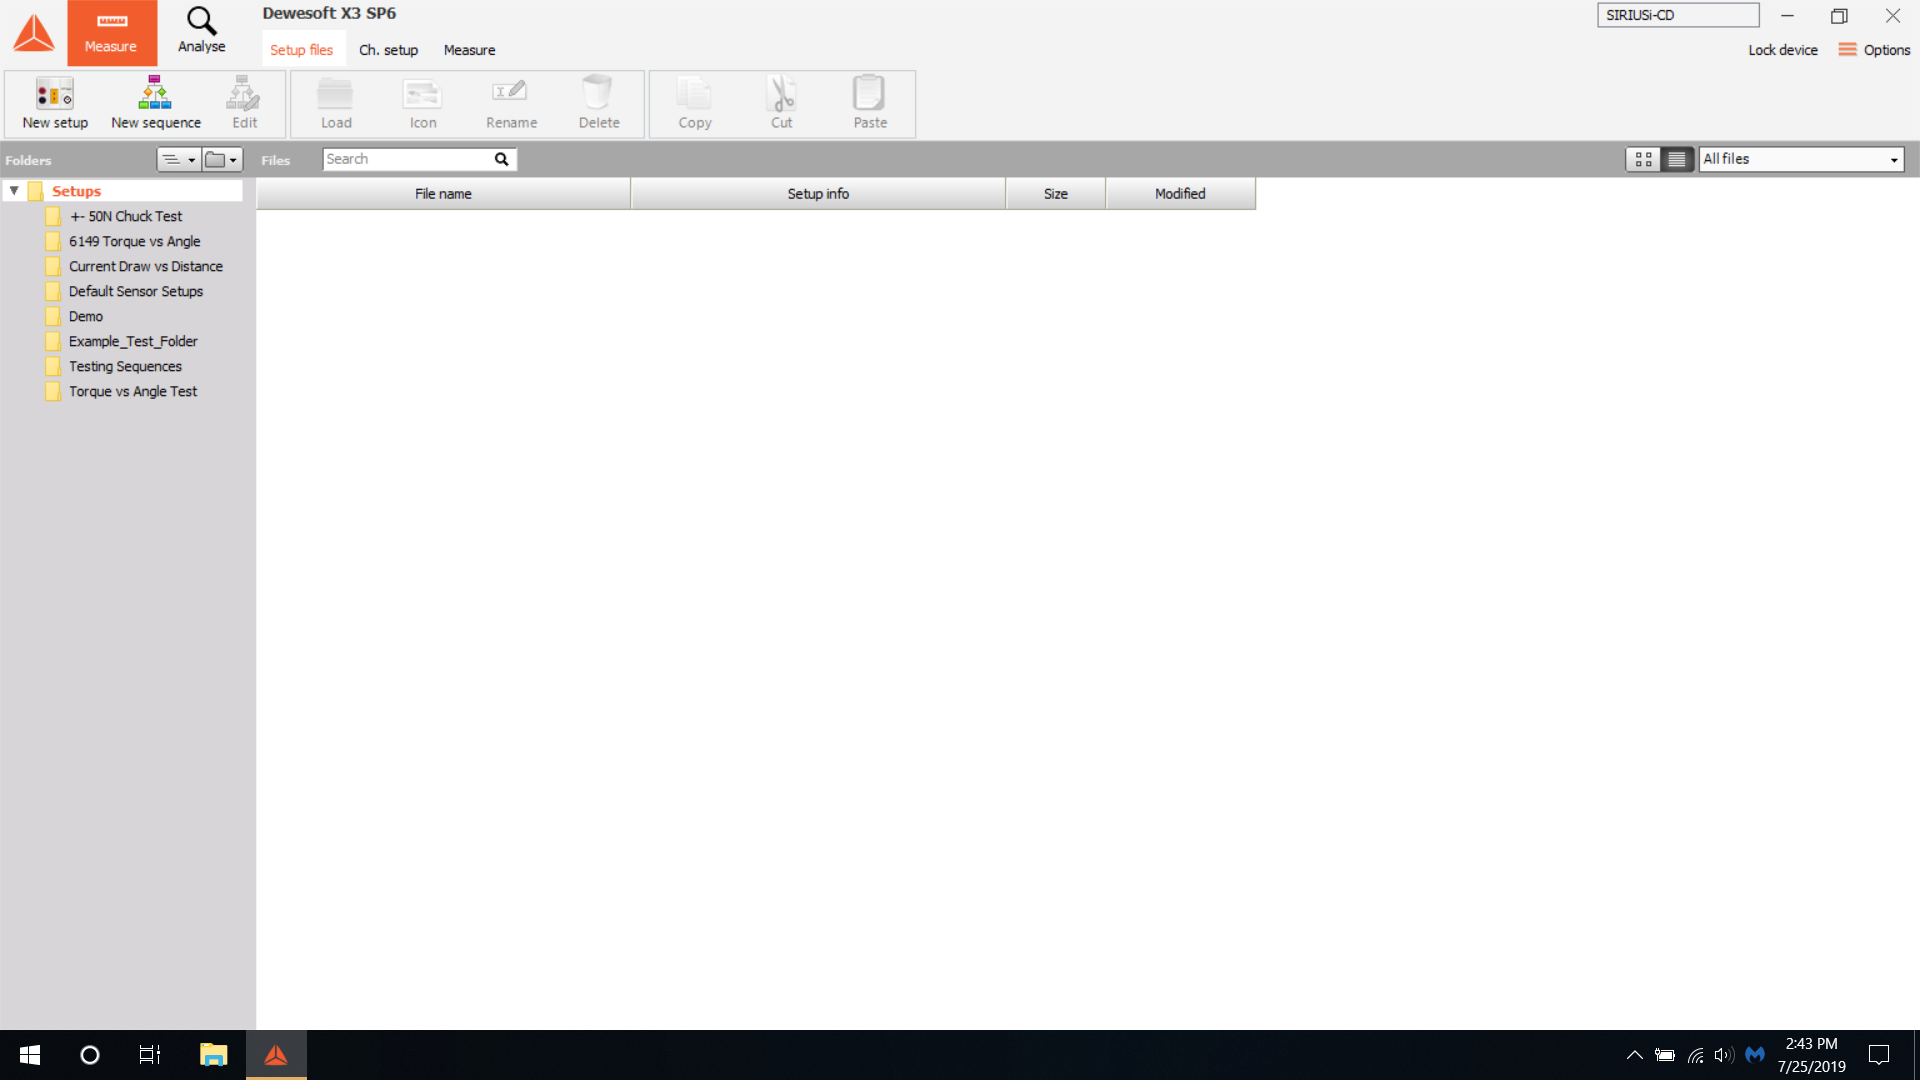
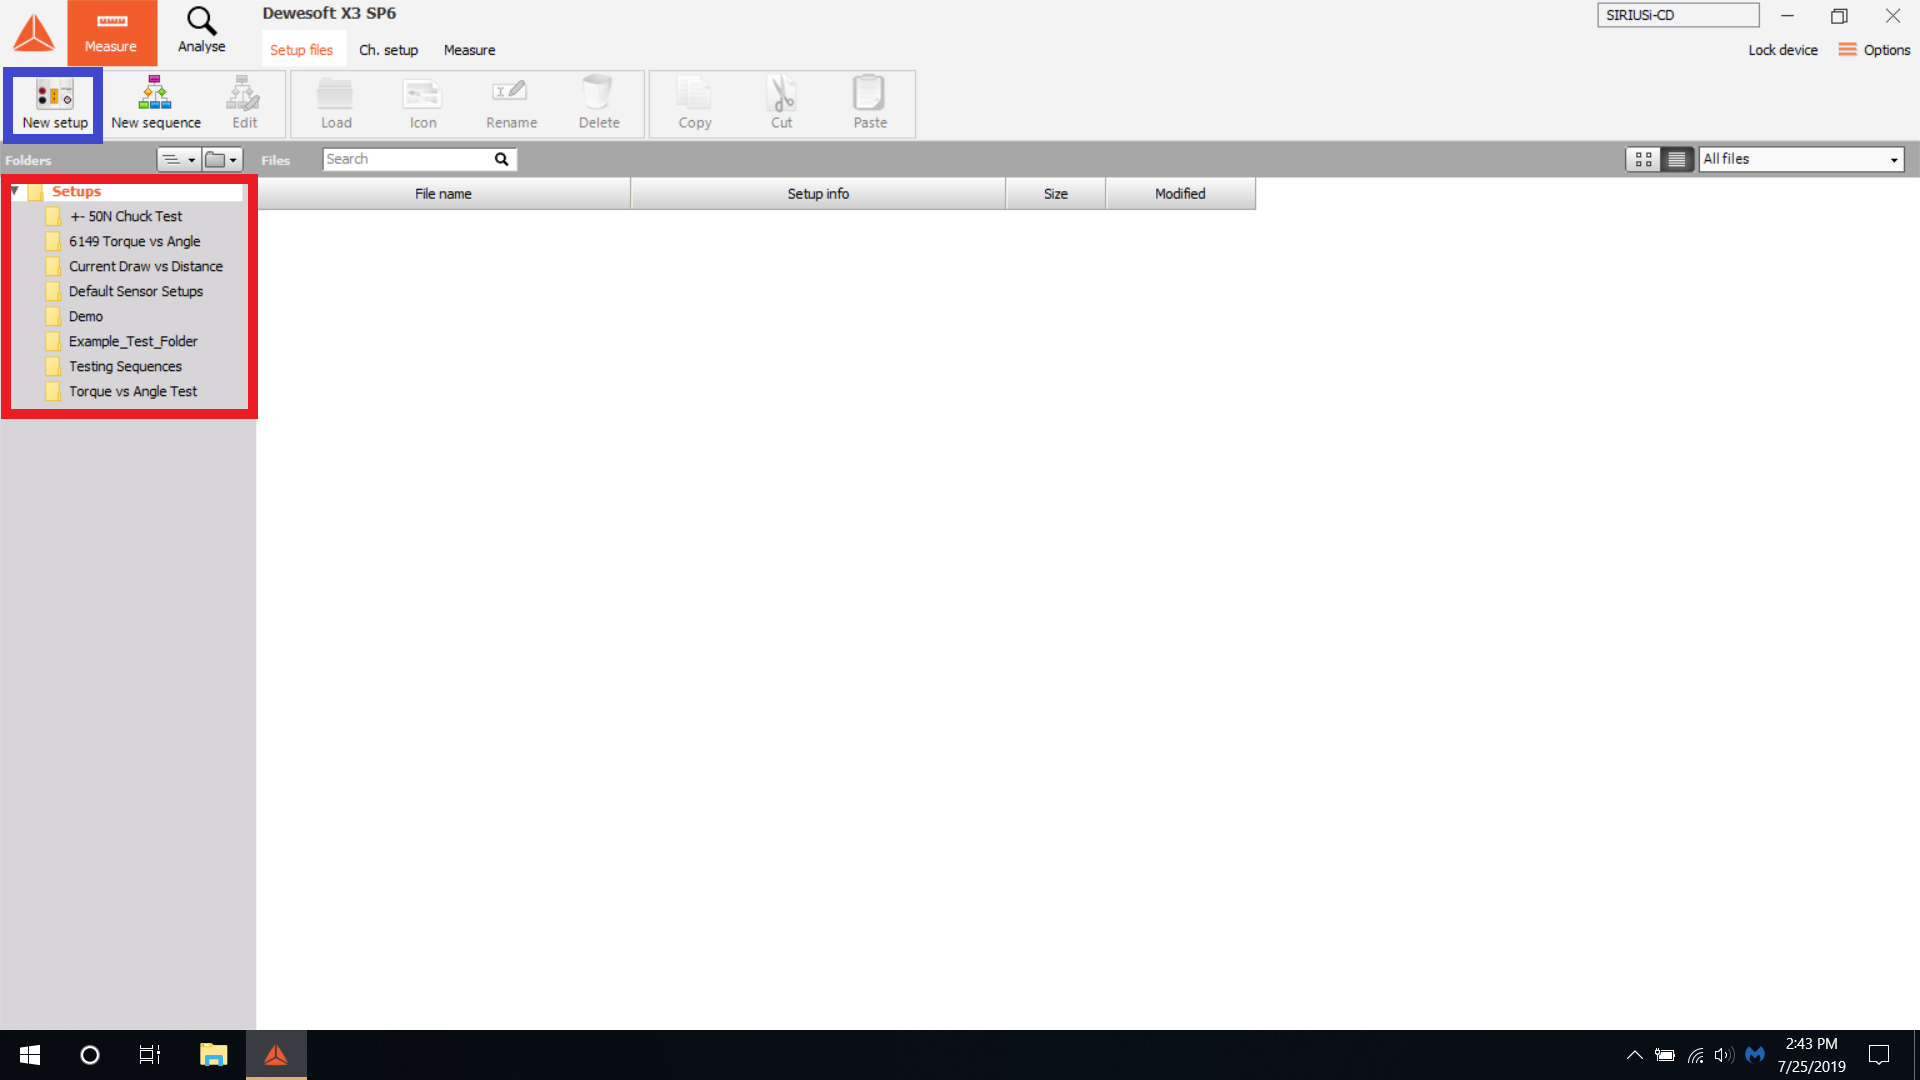
Edited the pictures and added boxes

Changed region(s): [[0.0, 0.0611, 0.1562, 0.3972]]

diff --git a/index.html b/index.html
@@ -6,7 +6,7 @@
     *   Author: Joshua B. Schember                    /#\   *
     *   Company: Fisher & Company                    /###\  *
     *   Date Created: 07-15-2019                     /###\  *
-    *   Last Modified: 07-15-2019                   /#####\ *
+    *   Last Modified: 08-01-2019                   /#####\ *
     *                                                 |@|   *
     *                                                       *
     * * * * * * * * * * * * * * * * * * * * * * * * * * * * *
@@ -537,7 +537,7 @@
                 
             </h3></a>
             
-            <img src="Pictures/Screenshot (4).png" alt="Screenshot(4)" class=zoom>
+            <img src="Pictures/Screenshot (11).png" alt="Screenshot(11)" class=zoom>
             <img src="Pictures/Screenshot (5).png" alt="Screenshot(5)" class=zoom style="right: 30%;">
             
                 <ul class=task>
